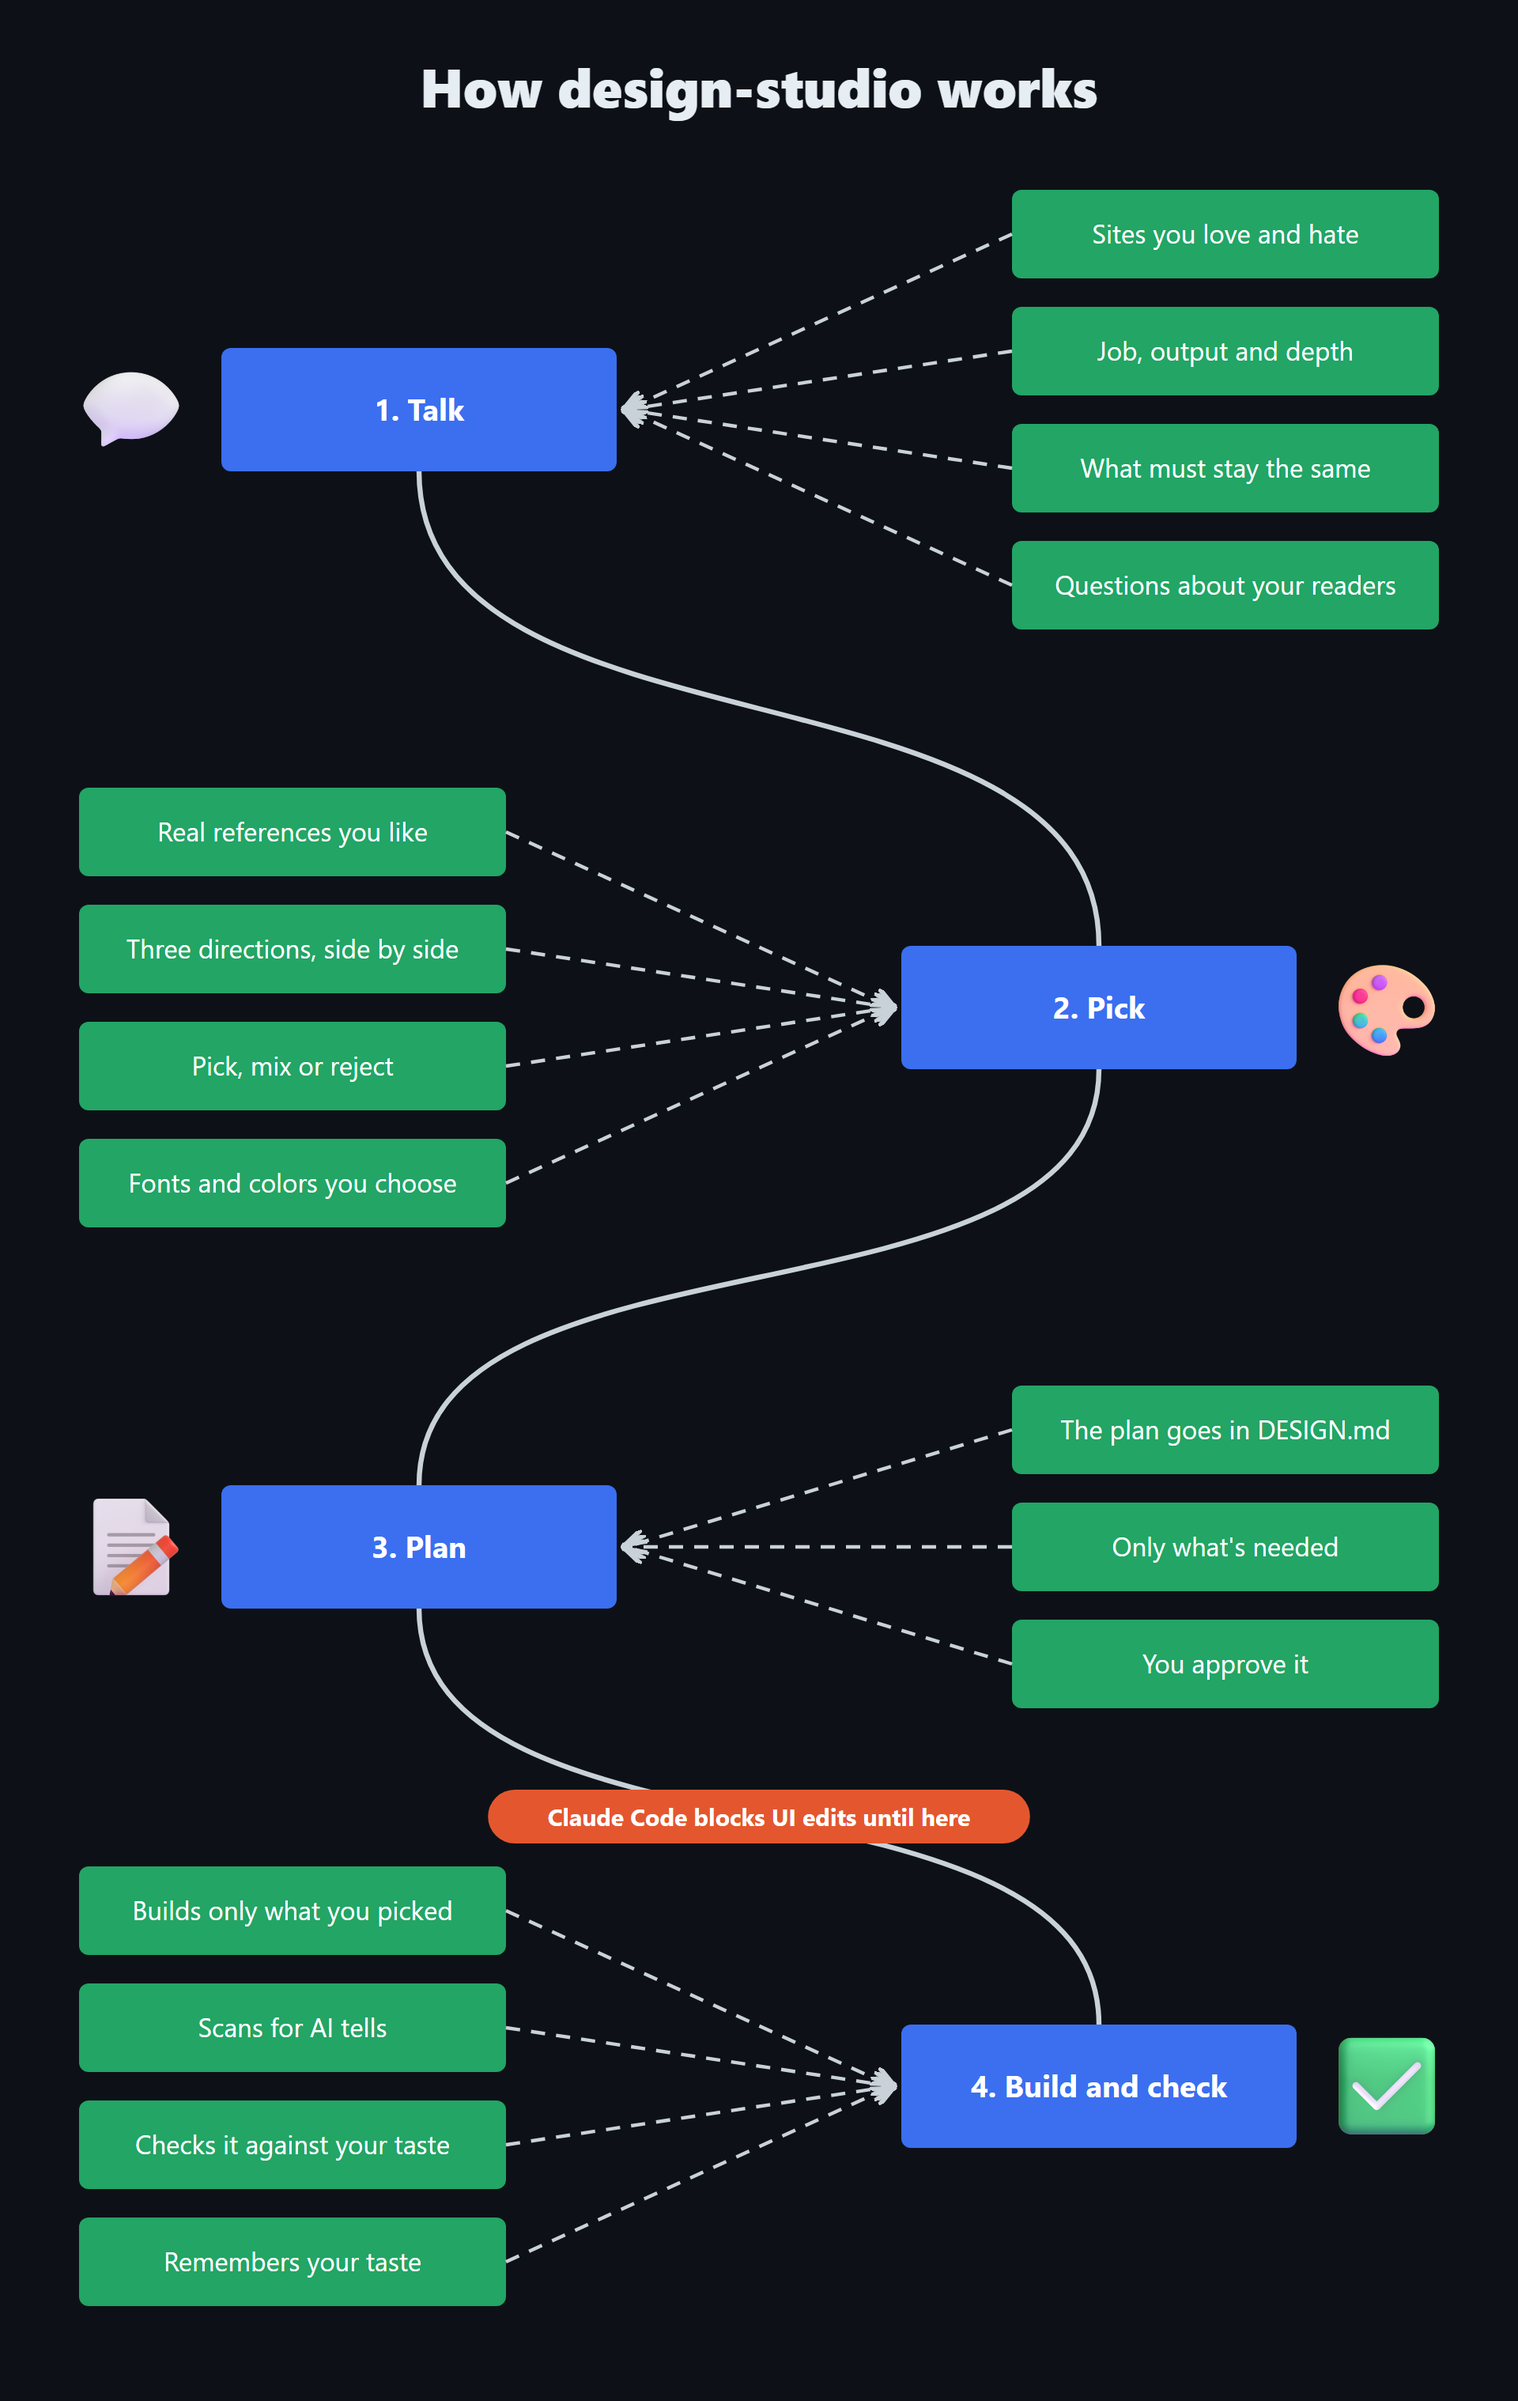
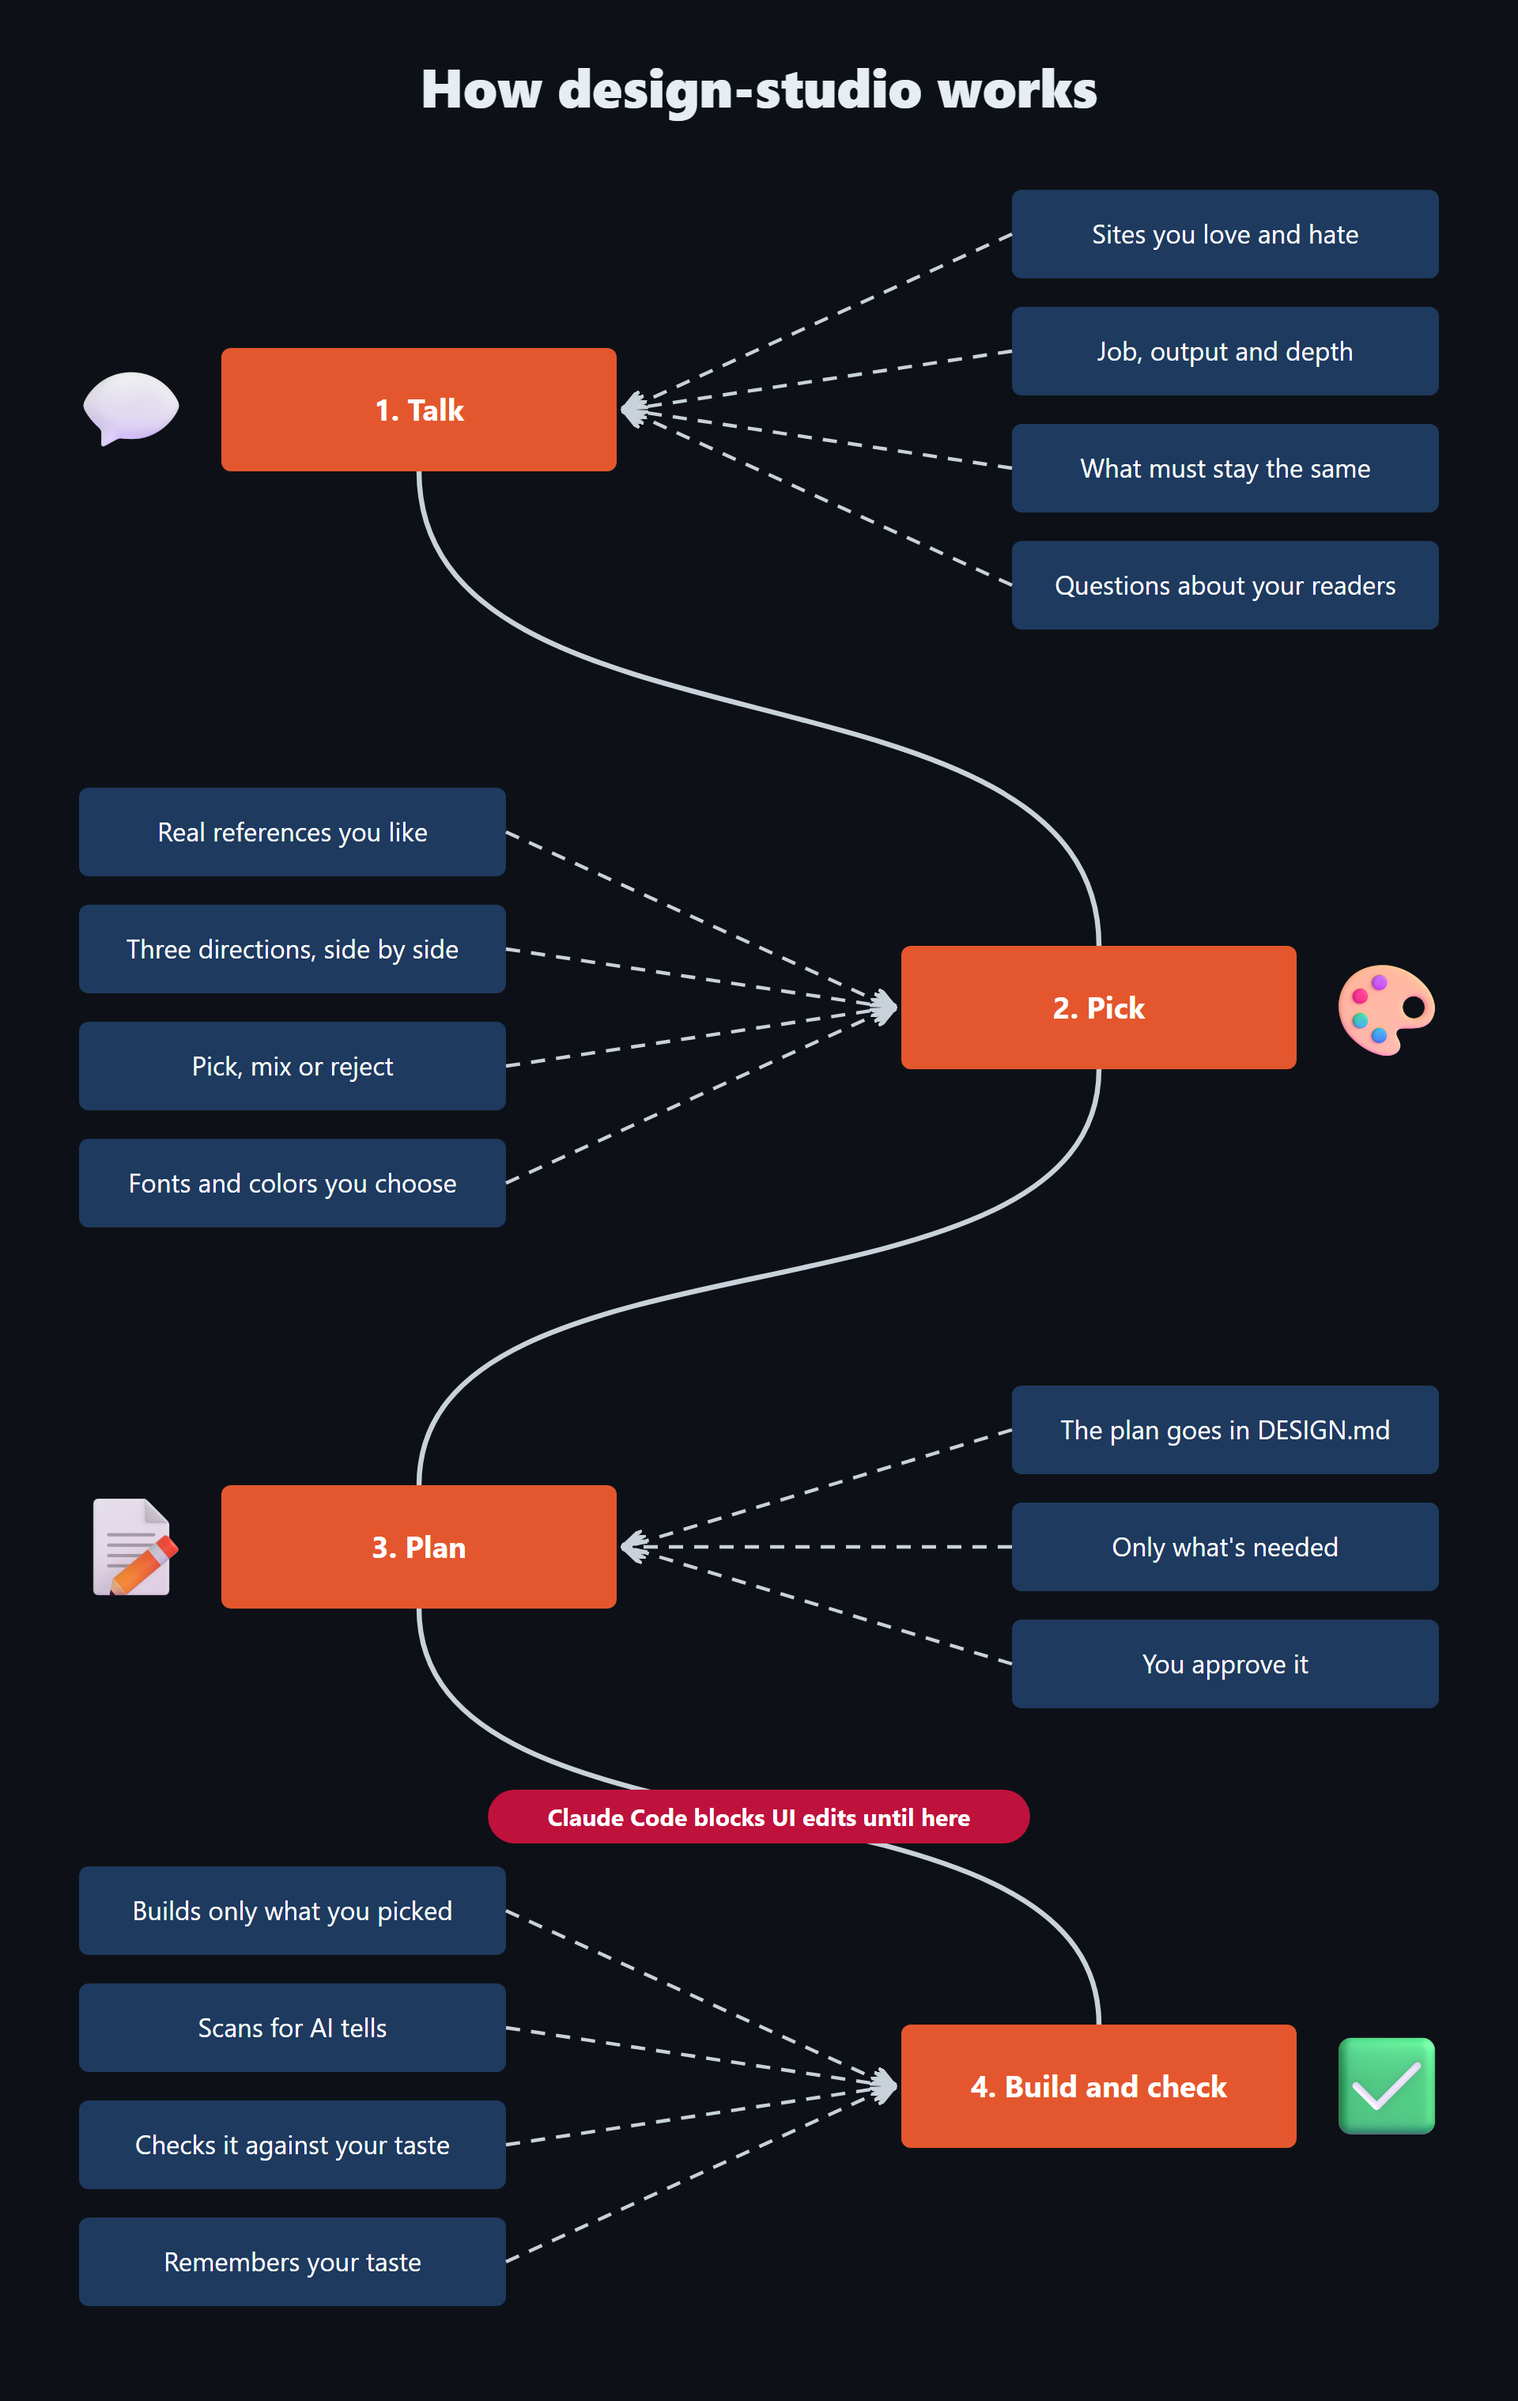
README: nine-steps hero, five kinds of AI slop, recoloured diagram

diff --git a/README.md b/README.md
@@ -1,6 +1,6 @@
 <h1 align="center">design-studio</h1>
 
-<h3 align="center">You asked for your bakery's website.<br>You got the same purple page as everyone else.</h3>
+<h3 align="center">You asked for your AI startup's landing page.<br>You got the same purple page as everyone else.</h3>
 
 <p align="center"><b>design-studio makes Claude ask first, show you real options, and build only what you pick.</b><br>
 <sub>Works in Claude Code, the Claude app, Cursor, Codex and other AI coding tools.</sub></p>
@@ -14,6 +14,7 @@
 
 <p align="center">
   <a href="#install"><b>Install</b></a> ·
+  <a href="#what-ai-makes-alone">What AI makes alone</a> ·
   <a href="#see-it-work">See it work</a> ·
   <a href="#how-it-works">How it works</a> ·
   <a href="https://github.com/Aydin-codes/toolkit">Toolkit</a> ·
@@ -23,12 +24,8 @@
 <p align="center">If design-studio helps you, please give it a star ⭐</p>
 
 <p align="center">
-  <picture>
-    <source media="(prefers-color-scheme: dark)" srcset=".github/assets/font-picker-dark.png">
-    <img src=".github/assets/font-picker-light.png" width="838" alt="The design-studio font picker for a sample bakery site. Three suggested font pairings each show the site's real headline and text, with one line on why each fits. Fraunces and Public Sans is chosen in the tray at the bottom, next to a notes box and a Copy choice button.">
-  </picture>
+  <img src=".github/assets/hero.png" width="838" alt="design-studio in one picture. A blue command bar reads /design-studio followed by what you're making, and works in Claude Code, the Claude app, Cursor and Codex. Below it, nine coloured step cards with 3D icons: 1 Find project, 2 Setup, 3 Job and depth, 4 Confirm frozen, 5 Interview, 6 References, 7 Directions, 8 Plan, 9 Build and check, under the line: Nine steps, and it stops for you at every decision. Lines lead to a panel: What you get, three real directions, DESIGN.md, your taste profile, a build checked for AI tells, and large numbers: 9 steps, 6 jobs, 6 outputs, 3 depths.">
 </p>
-<p align="center"><sub>Choosing fonts for a sample bakery site. Claude suggests three pairings on the site's own words, you pick one, and your choice goes back into the chat.</sub></p>
 
 ## What it is
 
@@ -42,6 +39,15 @@ One rule runs through all of it: **taste comes from you.** The AI never picks yo
 
 It works for websites, app screens, dashboards, reports, printable PDFs and game screens.
 
+## What AI makes alone
+
+<p align="center">
+  <img src=".github/assets/ai-slop.png" width="838" alt="Five kinds of AI slop. design-studio checks for all of them. A glowing robot in a graduation cap sits among five made-up pages, each tagged in red: a dark console page, Every API Standard. One Reference., tagged Every X. One Y. and code-shape panels; a cream editorial page, Wisdom over noise., tagged italic word and sans plus italic serif; a stock-photo startup page, You built the thing. Now fund it., tagged stock photo and one coloured line; a newsprint page, LAUNCH. GET SEEN. RISE., tagged everything shouts and no reading order; and a local landscaping template with a photo and quote form, tagged template hero and unchecked ratings.">
+</p>
+<p align="center"><sub>Five looks an AI falls back on when nobody asks you anything first. Each page is made up, modelled on real sites launched with AI builders, and every red tag is a tell design-studio checks for.</sub></p>
+
+<!-- BENCHMARKS: before/after results go here. -->
+
 ## See it work
 
 <table>
@@ -54,12 +60,10 @@ It works for websites, app screens, dashboards, reports, printable PDFs and game
     <td><sub><b>design-studio catches it.</b> Its check script found 14 problems in that page, including the made-up "10,000+ teams" and leftover "Lorem ipsum".</sub></td>
   </tr>
   <tr>
-    <td><img src=".github/assets/hook-block.png" alt="Terminal output: design-studio blocked this edit, you're not at the build step yet, followed by the four things still missing: confirmed keep and change lists, a human-made reference, a picked direction, and DESIGN.md."></td>
-    <td><picture><source media="(prefers-color-scheme: dark)" srcset=".github/assets/font-library-dark.png"><img src=".github/assets/font-library-light.png" alt="The font picker's full library, searched for grotesk: Cabinet Grotesk and Clash Grotesk from Fontshare and Familjen Grotesk from Google, each showing the bakery's headline and text."></picture></td>
+    <td colspan="2" align="center"><img src=".github/assets/hook-block.png" width="640" alt="Terminal output: design-studio blocked this edit, you're not at the build step yet, followed by the four things still missing: confirmed keep and change lists, a human-made reference, a picked direction, and DESIGN.md."></td>
   </tr>
   <tr>
-    <td><sub><b>It can't skip steps.</b> In Claude Code, if Claude tries to edit your app before you've picked a direction, the edit is blocked and Claude is told exactly what's missing.</sub></td>
-    <td><sub><b>You choose, not the AI.</b> Beyond Claude's suggestions you can search all 1,938 Google and Fontshare fonts, each shown on your own words.</sub></td>
+    <td colspan="2"><sub><b>It can't skip steps.</b> In Claude Code, if Claude tries to edit your app before you've picked a direction, the edit is blocked and Claude is told exactly what's missing.</sub></td>
   </tr>
 </table>
 
@@ -116,7 +120,7 @@ npx skills add Aydin-codes/design-studio
 Type `/design-studio` and say what you want, or just ask for a design in your own words:
 
 ```text
-/design-studio a landing page for my bakery
+/design-studio a landing page for my AI startup
 /design-studio reskin this dashboard, keep how everything works
 /design-studio polish the pricing page
 /design-studio fix the hero, it looks AI-made
@@ -200,7 +204,7 @@ Fonts, icons, photos and other assets come from the [toolkit](https://github.com
 hooks/hooks.json         Claude Code hooks that run the checks
 agents/design-critic.md  fresh-eyes reviewer that sees only screenshots and the plan
 tests/                   tests for the check script (node --test)
-skills/toolkit/          copy of github.com/Aydin-codes/toolkit: stacks, libraries and asset sources, with licences
+skills/toolkit/          copy of github.com/Aydin-codes/toolkit: stacks, libraries and asset sources, with licenses
 skills/color-and-type-spark/  live picking sheets for colors and fonts
 skills/design-studio/
 ├── SKILL.md             the core: rules and the nine steps
@@ -239,4 +243,4 @@ Found a step it skipped, or a page that still looks AI-made? [Open an issue](htt
 
 MIT. See [LICENSE](LICENSE).
 
-<sub>Built on ideas and skills from Emil Kowalski (MIT), Paul Bakaus's Impeccable, Anthropic's <code>frontend-design</code>, Kole Jain's design videos, Mobbin's dashboard study and the raintree Apple HIG skills; expert skills are called, not copied. Icons from Microsoft <a href="https://github.com/microsoft/fluentui-emoji">Fluent Emoji</a> (MIT) and <a href="https://simpleicons.org">Simple Icons</a> (CC0). The bakery and "Flowly" are made-up examples.</sub>
+<sub>Built on ideas and skills from Emil Kowalski (MIT), Paul Bakaus's Impeccable, Anthropic's <code>frontend-design</code>, Kole Jain's design videos, Mobbin's dashboard study and the raintree Apple HIG skills; expert skills are called, not copied. Icons from Microsoft <a href="https://github.com/microsoft/fluentui-emoji">Fluent Emoji</a> (MIT) and <a href="https://simpleicons.org">Simple Icons</a> (CC0). Flowly, specindex, The Quiet Lyceum, Seedline, Shipday and Greenleaf Landscaping are made-up examples. Photos from Wikimedia Commons: <a href="https://commons.wikimedia.org/wiki/File:Laptop_and_a_mug_(Unsplash).jpg">Laptop and a mug</a> (CC0) and <a href="https://commons.wikimedia.org/wiki/File:Messina_Orchard_garden_and_lawn.jpg">Messina Orchard garden and lawn</a> by Greghenderson2006 (CC BY-SA 4.0).</sub>
